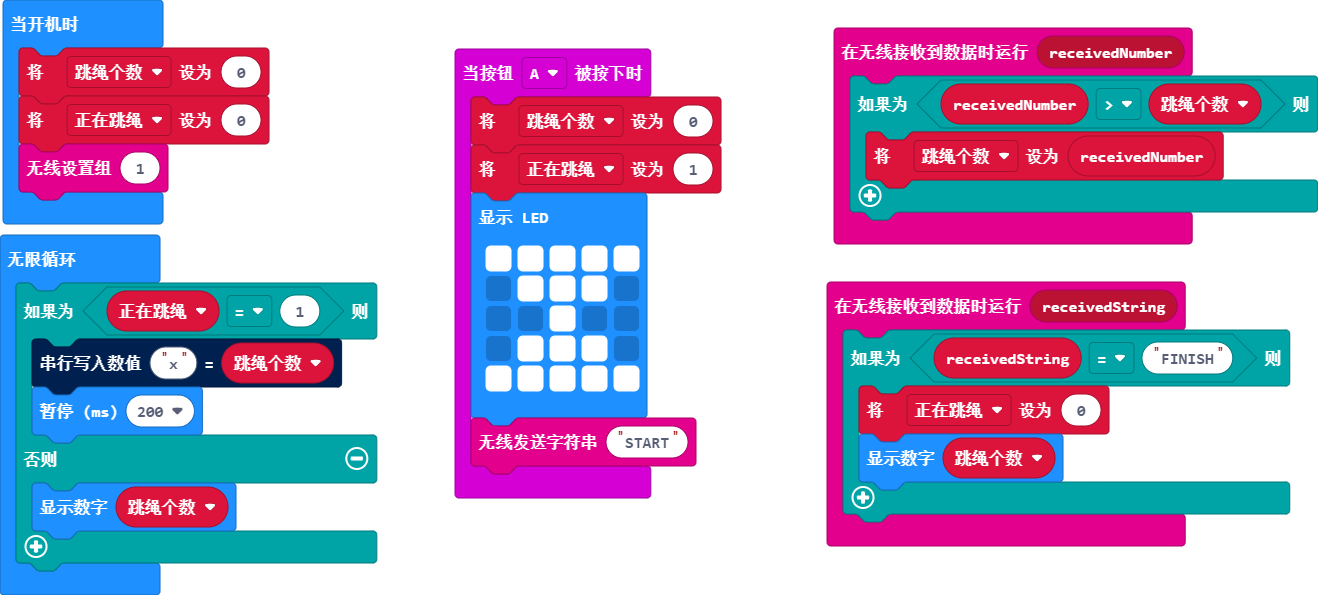
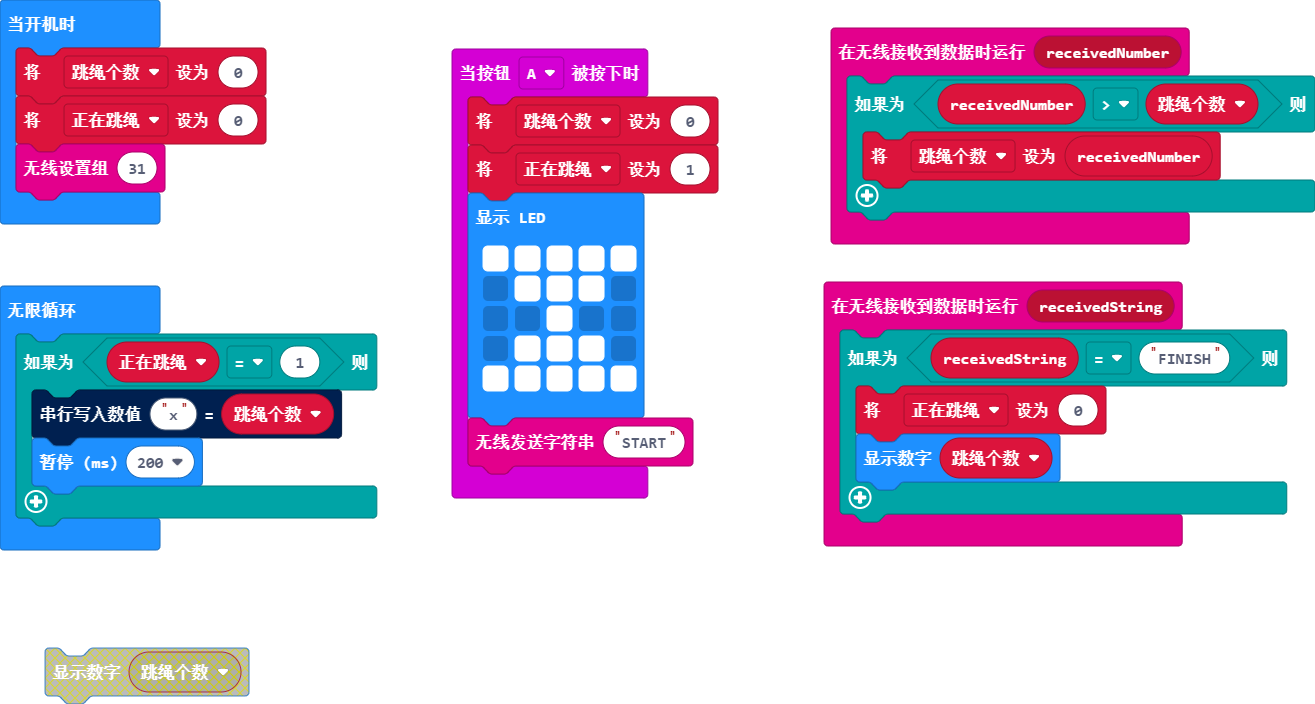
更新 main.blocks, main.ts

diff --git a/main.ts b/main.ts
@@ -25,12 +25,10 @@ let 正在跳绳 = 0
 let 跳绳个数 = 0
 跳绳个数 = 0
 正在跳绳 = 0
-radio.setGroup(1)
+radio.setGroup(31)
 basic.forever(function () {
     if (正在跳绳 == 1) {
         serial.writeValue("x", 跳绳个数)
         basic.pause(200)
-    } else {
-        basic.showNumber(跳绳个数)
     }
 })
